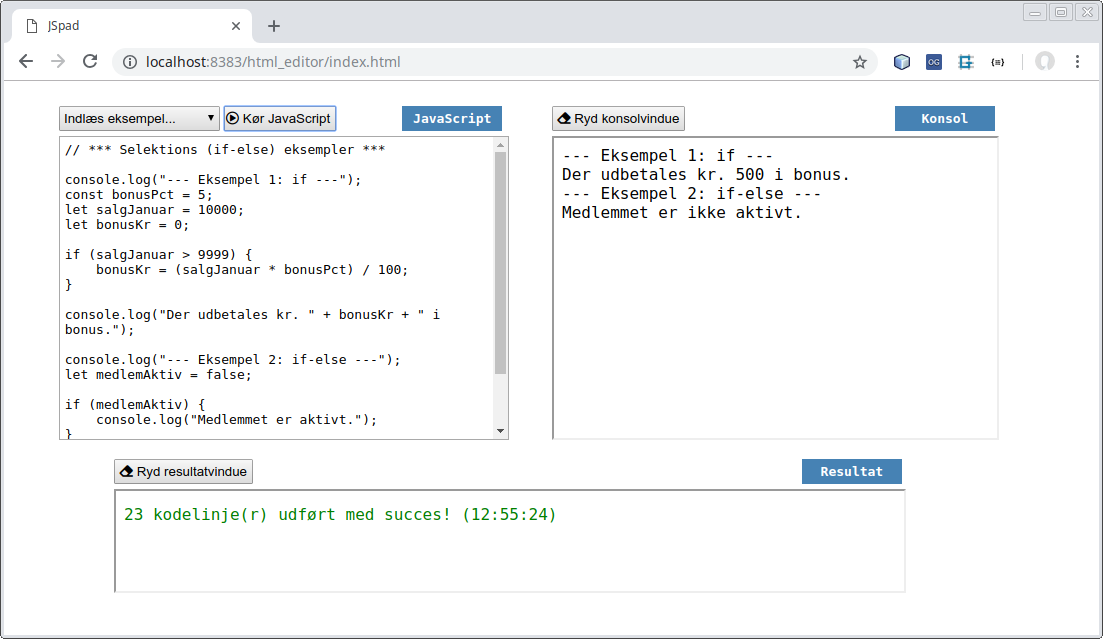
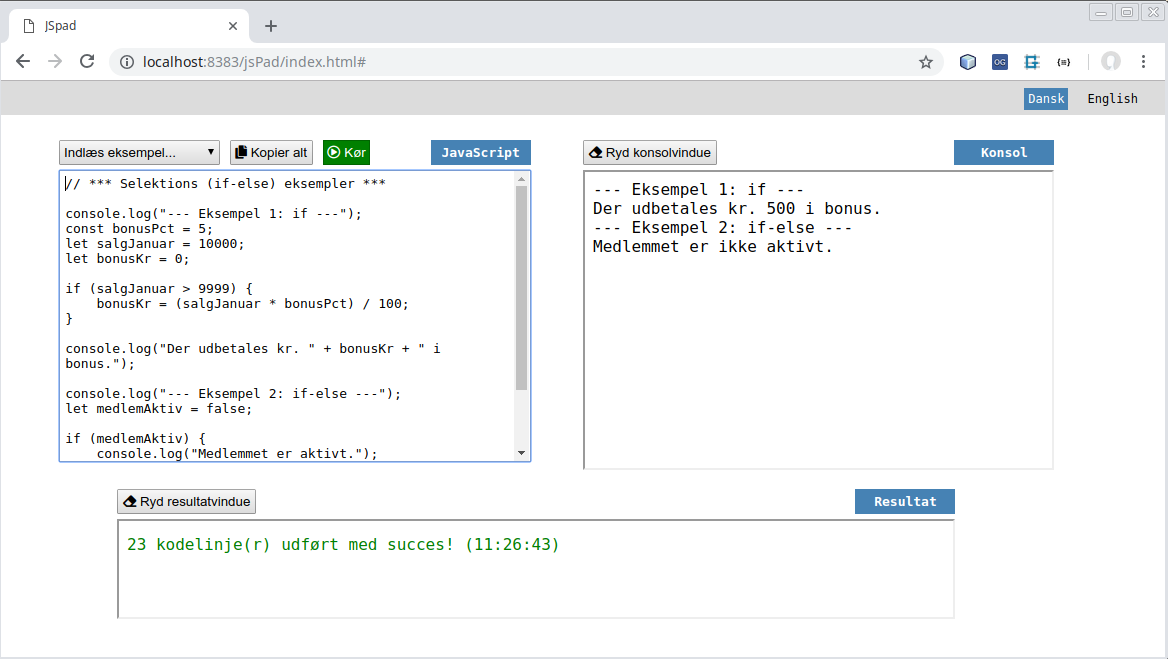
Refractoring 4. Nyt eksempel-billede.

Changed region(s): [[0.0, 0.0, 1.0, 1.0]]

diff --git a/js/mitjs.js b/js/mitjs.js
@@ -149,46 +149,29 @@ function skiftSprog(sprog) {
 
 var appSprog=skiftSprog("Dansk"); 
 
-document.addEventListener('click', function (event) {
+document.getElementById("run_knap").addEventListener('click', function (event) {
     let omraadeliste = ["outputomraade", "konsolomraade"];
     const frameObj = document.getElementById("redigeringsomraade");
+    const frameContent = document.getElementById("redigeringsomraade").value;
+    fjernIndhold();
 
-    if (event.target.classList.contains('execJs')) {
-        const frameContent = document.getElementById("redigeringsomraade").value;
-        fjernIndhold();
-
-        if (derErDialog(frameContent)) {
-            const iFrameKonsol = window.frames["konsolomraade"].document.getElementById("konsol");
-            if (appSprog==="Dansk") {
-                iFrameKonsol.innerHTML = "Når du bruger JavaScript dialogbokse i dit script (alert, confirm eller prompt), er konsolvinduet IKKE aktivt.";
-            } else {
-                iFrameKonsol.innerHTML = "When you use JavaScript dialog boxes in your script (alert, confirm or prompt), the console window is NOT active.";
-            }
-            omraadeliste = ["outputomraade"];
-            injectJs(erstatWrite(erstatConsoleLog(frameContent)), omraadeliste);
+    if (derErDialog(frameContent)) {
+        const iFrameKonsol = window.frames["konsolomraade"].document.getElementById("konsol");
+        if (appSprog==="Dansk") {
+            iFrameKonsol.innerHTML = "Når du bruger JavaScript dialogbokse i dit script (alert, confirm eller prompt), er konsolvinduet IKKE aktivt.";
         } else {
-            injectJs(erstatWrite(frameContent), omraadeliste);
+            iFrameKonsol.innerHTML = "When you use JavaScript dialog boxes in your script (alert, confirm or prompt), the console window is NOT active.";
         }
-        document.getElementById("redigeringsomraade").focus();
-        document.getElementById("redigeringsomraade").setSelectionRange(0,0); 
-        document.getElementById("redigeringsomraade").scrollTop = 0;
+        omraadeliste = ["outputomraade"];
+        injectJs(erstatWrite(erstatConsoleLog(frameContent)), omraadeliste);
+    } else {
+            injectJs(erstatWrite(frameContent), omraadeliste);
     }
-
-    if (event.target.classList.contains('rydkonsol')) {
-        window.frames['konsolomraade'].location.replace("konsol.html");
-    }
-
-    if (event.target.classList.contains('rydresultat')) {
-        window.frames['outputomraade'].location.replace("output.html");
-    }
+    document.getElementById("redigeringsomraade").focus();
+    document.getElementById("redigeringsomraade").setSelectionRange(0,0); 
+    document.getElementById("redigeringsomraade").scrollTop = 0;
 
 }, false);
-
-window.addEventListener("load", function (event) {
-    document.getElementById("redigeringsomraade").style.fontFamily = "Lucida Console, Monaco, monospace";
-    document.getElementById("redigeringsomraade").style.fontSize = "small";
-    document.getElementById("redigeringsomraade").focus();
-},false);
 
 
 document.getElementById("hentEksempel").addEventListener("change", function () {
@@ -256,3 +239,17 @@ document.getElementById("copy_knap").addEventListener('click', function (e) {
    document.getElementById("redigeringsomraade").setSelectionRange(0,0); 
    document.getElementById("redigeringsomraade").scrollTop = 0;
 }, false);
+
+document.getElementById("rydkonsol_knap").addEventListener('click', function (e) {
+    window.frames['konsolomraade'].location.replace("konsol.html");
+}, false);
+
+document.getElementById("rydresultat_knap").addEventListener('click', function (e) {
+       window.frames['outputomraade'].location.replace("output.html");
+}, false);
+
+window.addEventListener("load", function (event) {
+    document.getElementById("redigeringsomraade").style.fontFamily = "Lucida Console, Monaco, monospace";
+    document.getElementById("redigeringsomraade").style.fontSize = "small";
+    document.getElementById("redigeringsomraade").focus();
+},false);
